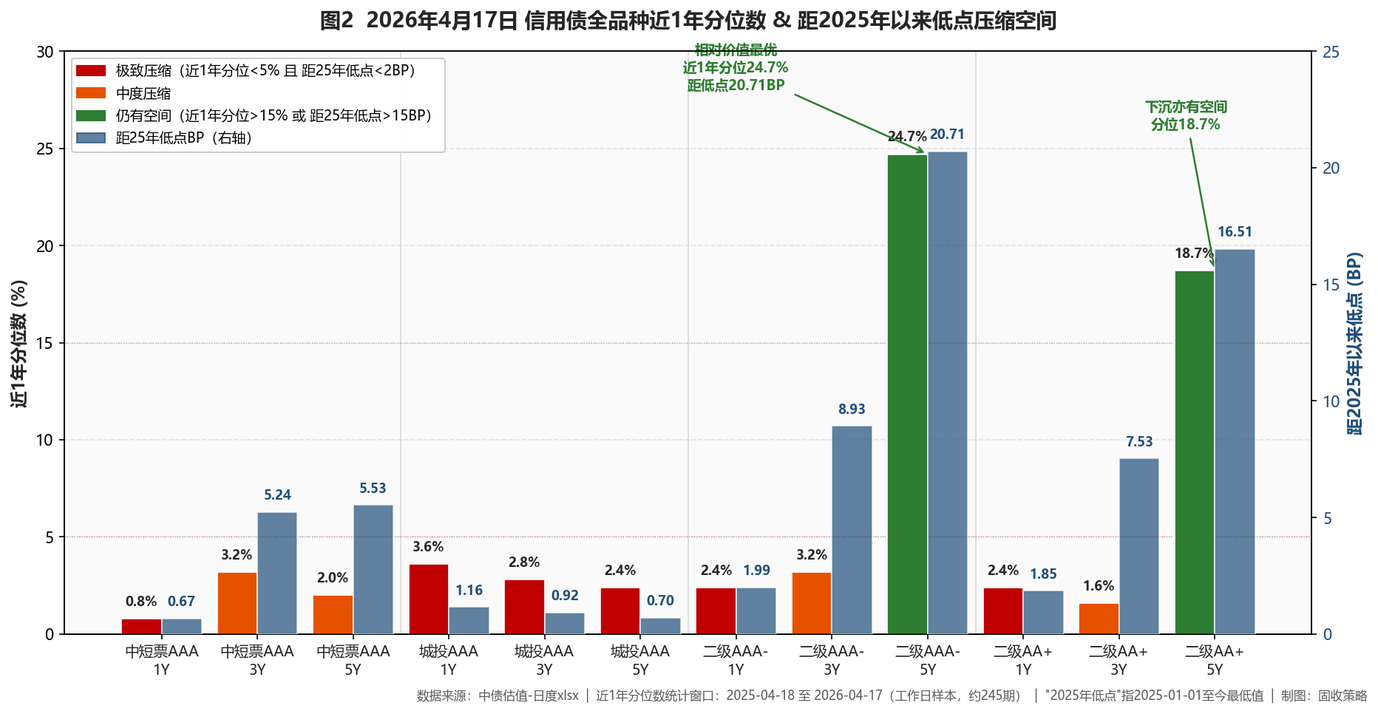
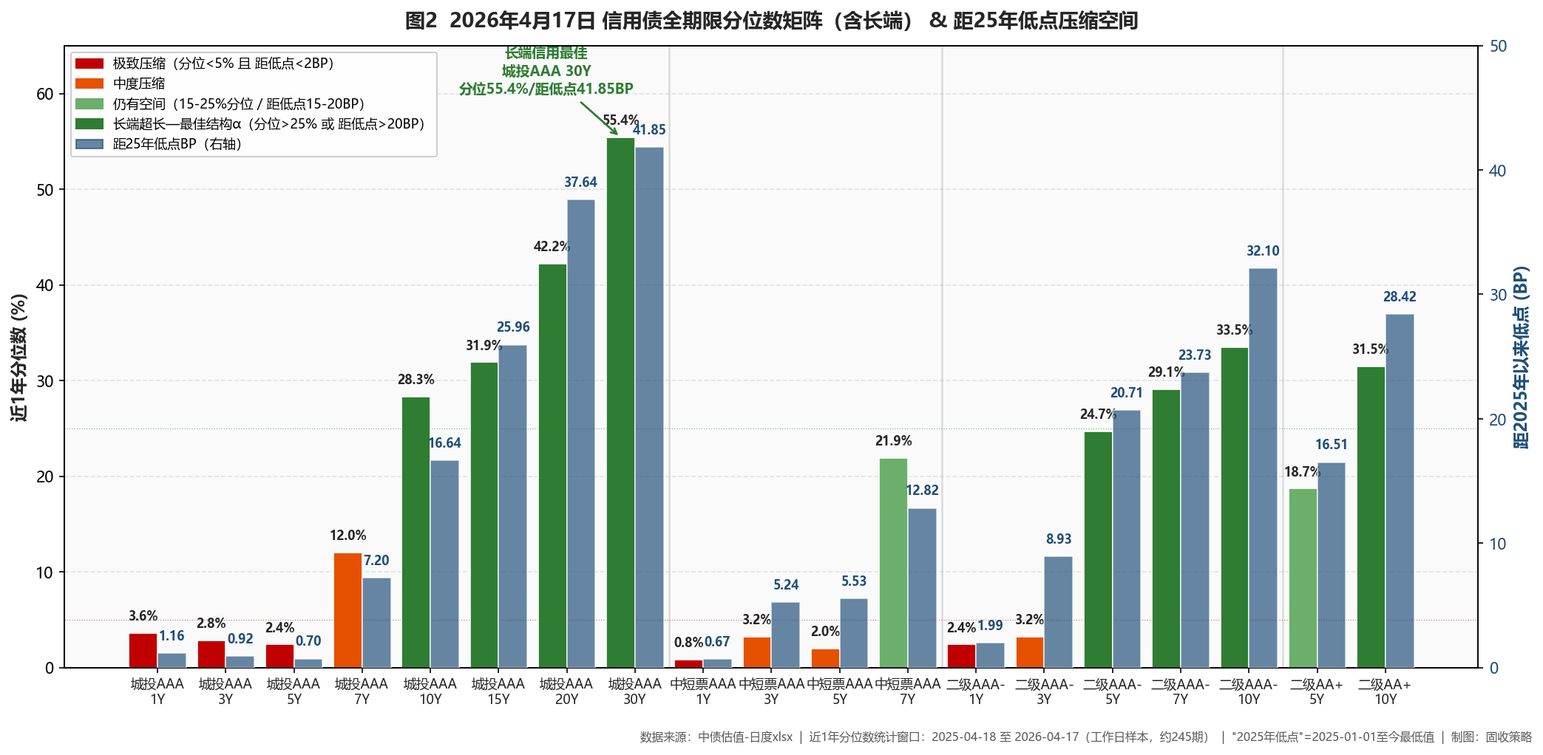
V4：覆盖利率+信用全曲线至30Y，新增长端信用段落与策略（城投AAA 15/20/30Y + 二级AAA-/AA+ 10Y），图2扩展长端期限矩阵

diff --git a/reports/20260420.html b/reports/20260420.html
@@ -3,7 +3,7 @@
 <head>
 <meta charset="UTF-8">
 <meta name="viewport" content="width=device-width, initial-scale=1.0">
-<title>信用日报：20260420 - 中短票AAA破新低，二级资本债5Y仍是相对价值洼地</title>
+<title>信用日报：20260420 - 短端贴底、长端仍有空间，聚焦城投AAA 20/30Y与二级AAA- 10Y</title>
 <style>
   :root{
     --clr-orange:#D97706;       /* 主题橙（深琥珀）*/
@@ -102,7 +102,7 @@
   <div class="header-band">
     <a href="../" class="nav-back">← 返回日报列表</a>
     <h1>信用日报：20260420</h1>
-    <div class="subtitle">中短票AAA破新低，二级资本债5Y仍是相对价值洼地</div>
+    <div class="subtitle">短端贴底、长端仍有空间，聚焦城投AAA 20/30Y与二级AAA- 10Y</div>
   </div>
 
   <div class="content">
@@ -116,12 +116,13 @@
       <div class="concl-card-title">◆ 核心判断 ◆</div>
       <p class="concl-regime">
         <span class="tag-regime">市场定性</span>
-        <strong style="color:var(--clr-orange-deep)">长期震荡市 + 牛平末期</strong>——A股放量反弹压制债市情绪，国开曲线牛平但长端分位已极低，<span class="alert">拉久期赔率降低、挖品种α与保杠杆成为主线</span>。
+        <strong style="color:var(--clr-orange-deep)">长期震荡市 + 牛平末期 + 超长信用行情延续</strong>——A股放量反弹压制债市情绪，但长端信用仍具结构α，<span class="alert">短端贴底、长端为王，机构正向久期要收益</span>。
       </p>
       <ul class="concl-list">
-        <li><span class="tag tag-good">✅ 超配</span>5Y 银行二级资本债 AAA-（近1年分位 24.3%、距25年低点 20.68BP，<strong>唯一仍有10+BP压缩空间的高等级品种</strong>），目标权重 ≥30%</li>
-        <li><span class="tag tag-bad">❌ 规避</span>中短票AAA 1Y（破25年新低、近1年分位 0.4%）、城投AAA 5Y（分位 0.8%、距低点 0.27BP）——<strong>贴底接盘风险大于收益</strong></li>
-        <li><span class="tag tag-bad">❌ 不追</span>长端利率债活跃券——活跃券下行0.5BP+但中债估值曲线持平，<strong>配置盘未跟进，牛平末期赔率低</strong></li>
+        <li><span class="tag tag-good">✅ 超长信用</span>首选：<strong>城投AAA 20/30Y</strong>（分位41-46%/距低点37.83-39.88BP）+ <strong>二级AAA- 10Y</strong>（-1.75BP领跌、分位31.5%/距低点30.35BP）+ <strong>二级AA+ 10Y</strong>（分位31.1%/距低点28.24BP）；合计权重15-25%</li>
+        <li><span class="tag tag-good">✅ 中段品种</span>5Y二级AAA-（分位24.3%/距低点20.68BP）+ 5Y二级AA+（分位13.9%/距低点15.10BP），合计25-30%</li>
+        <li><span class="tag tag-bad">❌ 规避</span>中短票AAA 1Y（破25年新低、分位0.4%）、城投AAA 1-5Y（分位<2.5%、距低点<1BP）——<strong>贴底接盘</strong></li>
+        <li><span class="tag tag-bad">❌ 不追</span>长端利率债活跃券——活跃券与中债估值分化、配置盘未跟进，<strong>牛平末期赔率低</strong></li>
       </ul>
       <div class="concl-flip">
         <strong>翻转信号：</strong>①政治局超预期宽松→重启久期 &nbsp;|&nbsp; ②R-DR利差>15BP→去杠杆 &nbsp;|&nbsp; ③活跃券与中债估值利差重走阔→长端机会重现 &nbsp;|&nbsp; ④股债跷跷板+赎回→二永或成错杀
@@ -141,7 +142,7 @@
       </div>
 
       <h2>信用债（核心）</h2>
-      <p>全品种利差压缩0.5-1.5BP但极致分化：<span class="alert">中短票AAA 1Y破25年新低（近1年分位0.4%）、城投AAA全曲线分位<2.5%（5Y仅0.8%、距低点0.27BP）已贴底</span>；唯<span class="good">银行二级资本债AAA- 5Y近1年分位24.3%、距低点20.68BP，仍有10BP+压缩空间，是当前唯一结构α品种</span>。理财规模31.9万亿（-1.38万亿）但增配债券，中短端二永仍有支撑。<span class="head">保险视角：</span>30Y-10Y利差49BP>25BP阈值但配置盘观望；偿二代后永续债因基础因子更低可作替代考虑。</p>
+      <p>全品种利差压缩0.5-1.5BP但呈现<span class="alert">"短端贴底、长端仍有空间"</span>的期限分化：短中端（中短票AAA 1Y破25年新低/分位0.4%、城投AAA 1-5Y分位<2.5%）已极致贴底；<span class="good">🎯 长端价值洼地明显——城投AAA 20/30Y分位46.2%/41.4%/距低点37.83-39.88BP、30Y领跌-1.97BP；二级AAA- 10Y今日-1.75BP、分位31.5%/距低点30.35BP；二级AA+ 10Y分位31.1%/距低点28.24BP</span>；中段5Y二级AAA-分位24.3%仍有20BP空间。理财31.9万亿(-1.38万亿)但增配债券，机构正向长端要收益。</p>
       <div class="chart-wrap">
         <img src="assets/20260420_chart2_credit_quantile.png" alt="信用债全品种分位数与压缩空间">
         <p class="chart-caption">图2　信用债全品种近1年分位数 & 距2025年以来低点压缩空间</p>
@@ -149,17 +150,18 @@
 
       <h2>策略矩阵</h2>
       <div class="strategy-matrix">
-        <div class="row"><span class="col-tag good">✅ 品种（首选）</span><span class="col-body">超配5Y二级资本债AAA- 30-40%；止盈位再压缩8BP</span></div>
-        <div class="row"><span class="col-tag good">✅ 骑乘</span><span class="col-body">5Y→4Y→3Y二级资本债，曲线陡峭度支撑双重收益</span></div>
-        <div class="row"><span class="col-tag good">✅ 票息底仓</span><span class="col-body">1-3Y城投AAA 20-25% + 1-3Y中短票AAA 10-15%</span></div>
+        <div class="row"><span class="col-tag good">✅ 超长信用（新核心）</span><span class="col-body">城投AAA 20/30Y + 二级AAA-/AA+ 10Y，合计15-25%</span></div>
+        <div class="row"><span class="col-tag good">✅ 中段品种</span><span class="col-body">5Y二级AAA- 20-25% + 5Y二级AA+ 5-10%</span></div>
+        <div class="row"><span class="col-tag good">✅ 骑乘</span><span class="col-body">5Y→4Y→3Y二级资本债，陡峭度支撑双重收益</span></div>
+        <div class="row"><span class="col-tag good">✅ 票息底仓</span><span class="col-body">1-3Y城投AAA 15-20% + 1-3Y中短票AAA 5-10%</span></div>
         <div class="row"><span class="col-tag good">✅ 杠杆</span><span class="col-body">保持110-115%，关注月末+政治局会议</span></div>
-        <div class="row"><span class="col-tag warn">⚠ 下沉</span><span class="col-body">仅5Y二级资本债AA+小仓位（≤10%）参与</span></div>
-        <div class="row"><span class="col-tag bad">❌ 久期</span><span class="col-body">牛平末期+长端分位极低，退出长端博弈</span></div>
+        <div class="row"><span class="col-tag warn">⚠ 止盈监测</span><span class="col-body">基金久期近3年 / 10Y AAA-3Y利差25-30BP / 下行斜率加速 / 机构下沉超长——任一触发减仓20/30Y</span></div>
+        <div class="row"><span class="col-tag bad">❌ 不追长端利率债</span><span class="col-body">活跃券与中债估值分化、配置盘未跟进，牛平末期赔率低</span></div>
         <div class="row"><span class="col-tag bad">❌ 波段</span><span class="col-body">震荡市缺明确方向，胜率低不作主策略</span></div>
       </div>
 
       <div class="portfolio-box">
-        <strong>组合结构：</strong> 3-5Y二永AAA- 30-40% + 1-3Y城投AAA 20-25% + 1-3Y中短票AAA 10-15% + 5Y二级AA+ ≤10% + 5Y永续AAA- 0-10% + 现金≥10%；杠杆率110-115%。
+        <strong>组合结构：</strong> 长端信用（城投AAA 20/30Y + 二级AAA-/AA+ 10Y）15-25% + 5Y二级AAA- 20-25% + 5Y二级AA+ 5-10% + 1-3Y城投AAA 15-20% + 1-3Y中短票AAA 5-10% + 现金≥10%；杠杆110-115%。
       </div>
     </div>
 
@@ -181,9 +183,11 @@
       </div>
 
       <h2>三、信用债市场</h2>
-      <p>中债估值口径下，信用债<span class="data">全品种跟随利率债小幅下行、信用利差全面小幅压缩0.5-1.5BP</span>，宽松资金面正外溢至信用端。但今日最硬的信号是<span class="alert">不同品种的相对价值已极致分化</span>——<span class="head">中短票AAA是今日最核心信号源</span>，1Y下行0.67BP至1.5351%、<span class="alert">刷新2025年以来最低点，近1年分位数（2025-04-21至今工作日样本）仅0.4%</span>，意味着过去一年仅有极个别交易日低于今天；<span class="head">城投AAA是全市场最极致压缩的板块</span>，全曲线近1年分位数均<2.5%（1.2%/2.4%/0.8%），其中5Y仅0.8%为全市场之最、距2025年以来低点仅0.27BP，1Y/3Y距低点0.23/0.76BP同样近乎贴底。<span class="alert">进一步压缩空间几乎为零，在绝对价值极值位继续增持，风险收益比已严重恶化</span>。</p>
-      <p>与此形成鲜明对比的是，<span class="head">银行二级资本债AAA-是当前最具相对价值的板块</span>——5Y报1.9721%，<span class="good">近1年分位数24.3%、距2025年低点20.68BP</span>，两项指标均显著高于同期限城投AAA（0.8% / 0.27BP）与中短票AAA（2.8% / 5.82BP），<span class="good">是当前信用债中唯一仍有10BP以上压缩空间的高等级品种</span>。1Y/3Y分位虽已压至1.6%/2.0%，但仍有1-8BP的距低点空间。AA+ 5Y今日-1.41BP、利差单日压缩1.58BP，下沉收益显现。这正是<span class="data">"结构性资产荒下品种策略价值凸显"</span>的典型窗口——市场已从票息挖掘向结构α迁移。</p>
-      <p><span class="head">机构行为与保险视角：</span>一季度末理财规模31.9万亿，<span class="alert">环比-1.38万亿、降幅超季节性</span>（存款分流+打榜受限+分红险竞争），但资产端明显增配债券、减配存单，<span class="data">对中短端信用尤其是二永债的配置需求仍有边际支撑</span>。保险视角两个重要信号：①<span class="data">30Y-10Y国债期限利差（中债估值口径）49BP，显著高于25BP的险资增配经验阈值</span>，理论上超长端是险资负债驱动下的配置窗口；但活跃券与中债估值分化提示同业保险目前处于"等更好点位"的观望状态，跟进太早=给交易盘做对手盘。②偿二代二期过渡期2025年底结束后，<span class="head">二级资本债基础因子高于永续债</span>——对偿付能力承压的中小寿险而言，5Y永续AAA-可作为5Y二级资本债AAA-的替代或补充品种（需结合IFRS9会计处理口径综合评估）。</p>
+      <p>全品种利差压缩0.5-1.5BP但呈现<span class="alert">"短端贴底、长端仍有空间"</span>的显著期限分化——<span class="head">短中端已极致压缩：</span>中短票AAA 1Y破25年新低（分位0.4%）、城投AAA 1-5Y分位均<2.5%（5Y仅0.8%/距低点0.27BP）、中短票AAA 3-5Y分位<4%——<span class="alert">在绝对价值极值位继续增持，风险收益比已严重恶化</span>。</p>
+      <p><span class="head">🎯 长端信用是今日真正的价值洼地——</span><span class="good">城投AAA 20/30Y今日+0.19/-1.97BP、近1年分位46.2%/41.4%、距2025年以来低点37.83/39.88BP</span>，30Y单日领跌长端信用；<span class="good">二级资本债AAA- 10Y今日-1.75BP（信用板块领跌）、分位31.5%/距低点30.35BP</span>，二级AA+ 10Y分位31.1%/距低点28.24BP同样具吸引力；中短票AAA 7Y分位21.1%/距低点11.82BP。按超长信用行情框架，当前处于<span class="data">"利率震荡+非银扩张（理财增配债券）+资产荒演绎中期"三重共振窗口</span>——必要条件完全满足，长端品种α相对中短端具有显著的赔率优势。</p>
+      <p><span class="head">中段品种亦有空间——</span>5Y 二级资本债AAA-（分位24.3%/距低点20.68BP）+ 5Y 二级AA+（分位13.9%/距低点15.10BP）均显著优于同期限城投AAA与中短票AAA，中段信用中仅二级资本债系列仍有10-15BP压缩空间；AA+ 5Y今日-1.41BP、单日利差压缩1.58BP，下沉收益显现；活跃个券"26工行二级资本债01BC"、"24建二级资本债01B"均小幅下行与曲线数据印证。</p>
+      <p><span class="head">【止盈信号监测】</span>按超长信用止盈框架，需同步监测：<span class="alert">①中长期纯债基金久期接近3年阈值 ②10Y AAA中短票-3Y利差压至25-30BP附近 ③下行斜率加速形成一致预期 ④机构向中低等级超长债下沉</span>——任一触发建议向10Y以内配置型品种集中、减仓20/30Y超长。</p>
+      <p><span class="head">【理财行为与保险视角】</span>一季度末理财31.9万亿（环比-1.38万亿）但资产端明显增配债券，机构正在向长端扩散。保险视角：30Y-10Y国债期限利差49BP显著高于25BP的险资增配经验阈值，超长端是险资负债驱动下的配置窗口；偿二代二期过渡期2025年底结束后，<span class="head">二级资本债基础因子高于永续债</span>，对偿付能力承压的中小寿险而言，5Y永续AAA-可作为5Y二级资本债AAA-的替代/补充品种（需结合IFRS9综合评估）。</p>
       <div class="source">数据来源：《信用债净值曲线-全品种》中债估值日频数据库——中短票AAA(M1000532/M1000534/M1000536)、城投AAA(M1000381/M1000383/M1000385)、银行二级资本债AAA-(M1010704/M1010706/M1010708)、银行二级资本债AA+(M1010719/M1010721/M1010723)、国债(M1000158/M1000160/M1000162)；信用利差基于同期限中债国债估值自行计算；分位数=近1年（2025-04-21至今）工作日样本；"2025年低点"指2025-01-01至今最低值；理财规模数据取自Wind资讯。</div>
       <div class="chart-wrap">
         <img src="assets/20260420_chart2_credit_quantile.png" alt="信用债全品种分位数与压缩空间">
@@ -192,17 +196,19 @@
 
       <h2>四、策略矩阵与仓位建议</h2>
       <div class="strategy-matrix">
-        <div class="row"><span class="col-tag good">✅ 品种（首选）</span><span class="col-body">超配5Y二级资本债AAA- 30-40%，止盈位再压缩8BP。这是"结构性资产荒下品种策略价值凸显"的典型应用——市场已从票息挖掘向结构α迁移。</span></div>
-        <div class="row"><span class="col-tag good">✅ 骑乘</span><span class="col-body">5Y→4Y→3Y二级资本债，曲线陡峭度足够（5Y-3Y约20BP），持有期间获"票息+曲线下移"双重收益。城投AAA骑乘价值不足（全曲线过于平坦）。</span></div>
-        <div class="row"><span class="col-tag good">✅ 票息底仓</span><span class="col-body">1-3Y城投AAA + 1-3Y中短票AAA作为组合票息底仓，不追5Y久期（近1年分位<2.5%、拉久期无收益只加风险）。</span></div>
-        <div class="row"><span class="col-tag good">✅ 杠杆</span><span class="col-body">R-DR利差极窄、1Y中短票-R007息差约20BP，杠杆仍是收益增厚来源——保持110-115%。观察止损信号：政治局会议、月末资金面、税期扰动。</span></div>
-        <div class="row"><span class="col-tag warn">⚠ 下沉</span><span class="col-body">仅二级资本债AA+ 5Y小仓位（≤10%）参与——今日-1.41BP显示下沉需求开始释放；但低等级城投利差贴底、下沉空间有限，严格规避区域财政弱、化债进度慢的AA城投。</span></div>
-        <div class="row"><span class="col-tag bad">❌ 久期</span><span class="col-body">牛平末期+长端分位极低+配置盘未跟进——拉久期至5Y及以上的资本利得赔率不足。长端利率债活跃券不追涨，等待活跃券与中债估值利差重走阔或央行释放新宽松信号再介入。</span></div>
+        <div class="row"><span class="col-tag good">✅ 超长信用（新核心）</span><span class="col-body">城投AAA 20/30Y（分位41-46%/距低点37.83-39.88BP）+ 二级AAA- 10Y（-1.75BP领跌、分位31.5%）+ 二级AA+ 10Y（分位31.1%）；合计目标权重15-25%。当前处于"利率震荡+非银扩张+资产荒中期"三重共振，必要条件完全满足。</span></div>
+        <div class="row"><span class="col-tag good">✅ 中段品种</span><span class="col-body">5Y二级资本债AAA- 20-25%（分位24.3%/距低点20.68BP）+ 5Y二级AA+ 5-10%（分位13.9%/距低点15.10BP），止盈位再压缩8BP。</span></div>
+        <div class="row"><span class="col-tag good">✅ 骑乘</span><span class="col-body">5Y→4Y→3Y二级资本债骑乘路径，曲线陡峭度足够（5Y-3Y约20BP），持有期获"票息+曲线下移"双重收益。</span></div>
+        <div class="row"><span class="col-tag good">✅ 票息底仓</span><span class="col-body">1-3Y城投AAA 15-20% + 1-3Y中短票AAA 5-10%，不追5Y久期（分位<2.5%）。</span></div>
+        <div class="row"><span class="col-tag good">✅ 杠杆</span><span class="col-body">R-DR利差极窄、息差约20BP，保持110-115%杠杆；观察政治局会议+月末资金面+税期扰动。</span></div>
+        <div class="row"><span class="col-tag warn">⚠ 下沉</span><span class="col-body">二级AA+ 5/10Y本身已是下沉品种；城投AA+/AA仅限区域财政强+化债进度快的主体，严格控仓≤5%。</span></div>
+        <div class="row"><span class="col-tag warn">⚠ 止盈监测</span><span class="col-body">超长信用止盈四信号：①基金久期近3年 ②10Y AAA中短票-3Y利差压至25-30BP ③下行斜率加速一致预期 ④机构下沉中低等级超长——任一触发向10Y以内集中、减仓20/30Y。</span></div>
+        <div class="row"><span class="col-tag bad">❌ 不追长端利率债</span><span class="col-body">活跃券下行0.5BP+但中债估值曲线持平，配置盘未跟进，牛平末期赔率低。等待活跃券与中债估值利差重走阔再介入。</span></div>
         <div class="row"><span class="col-tag bad">❌ 波段</span><span class="col-body">当前处于震荡市、缺乏明确方向拐点，波段交易胜率低、交易成本高，不作主策略。</span></div>
       </div>
 
       <div class="portfolio-box">
-        <strong>组合结构：</strong> 3-5Y二级资本债AAA- 30-40%（核心底仓/品种α）+ 1-3Y城投AAA 20-25%（票息）+ 1-3Y中短票AAA 10-15%（流动性垫）+ 5Y二级资本债AA+ ≤10%（下沉增强）+ 5Y永续债AAA- 0-10%（偿付能力替代）+ 现金与短融 ≥10%（税期缓冲）；杠杆率110-115%。
+        <strong>组合结构：</strong> 长端信用（城投AAA 20/30Y + 二级AAA-/AA+ 10Y）15-25%（核心结构α）+ 5Y二级资本债AAA- 20-25%（中段）+ 5Y二级AA+ 5-10%（下沉）+ 1-3Y城投AAA 15-20%（票息）+ 1-3Y中短票AAA 5-10%（流动性垫）+ 现金≥10%（税期缓冲）；杠杆率110-115%。
       </div>
 
       <div class="source">本文结论基于2026-04-20当日市场数据独立判断，数据口径统一采用中债估值。</div>

diff --git a/reports/20260417.html b/reports/20260417.html
@@ -3,7 +3,7 @@
 <head>
 <meta charset="UTF-8">
 <meta name="viewport" content="width=device-width, initial-scale=1.0">
-<title>信用日报：20260417 - 利率大幅下行，信用跟进滞后，二永AAA-仍是最优结构α</title>
+<title>信用日报：20260417 - 利率大幅下行，长端信用全面跟随，聚焦城投AAA 20/30Y+二级AAA- 10Y</title>
 <style>
   :root{
     --clr-orange:#D97706;
@@ -99,7 +99,7 @@
   <div class="header-band">
     <a href="../" class="nav-back">← 返回日报列表</a>
     <h1>信用日报：20260417</h1>
-    <div class="subtitle">利率大幅下行，信用跟进滞后，二永AAA-仍是最优结构α</div>
+    <div class="subtitle">利率大幅下行，长端信用全面跟随，聚焦城投AAA 20/30Y + 二级AAA- 10Y</div>
   </div>
 
   <div class="content">
@@ -113,12 +113,13 @@
       <div class="concl-card-title">◆ 核心判断 ◆</div>
       <p class="concl-regime">
         <span class="tag-regime">市场定性</span>
-        <strong style="color:var(--clr-orange-deep)">资产荒延续 + 牛平加速</strong>——利率债全线下行1.5-3.1BP、30Y国债-3.10BP领跌，但信用债跟进明显滞后，<span class="alert">信用利差被动走阔、仅二级资本债紧跟利率，城投AAA逆势微升</span>。
+        <strong style="color:var(--clr-orange-deep)">资产荒延续 + 牛平加速 + 超长信用行情共振</strong>——利率债全线下行1.5-3.1BP、30Y国债-3.10BP领跌；信用债短中端跟不上但<span class="alert">长端全面跟随（城投AAA 7-30Y -0.73~-2.06BP、二级AAA- 7-10Y -0.85~-1.52BP）</span>。
       </p>
       <ul class="concl-list">
-        <li><span class="tag tag-good">✅ 超配</span>5Y 二级资本债 AAA-（近1年分位24.7%、距25年低点20.71BP，<strong>信用债中唯一结构α</strong>），目标权重≥30%；叠加5Y二级AA+下沉（分位18.7%、距低点16.51BP）</li>
-        <li><span class="tag tag-good">✅ 战术</span>利用信用利差走阔机会——3-5Y中短票AAA利差单日+1.56/+2.23BP、城投AAA +2.09/+2.41BP，<strong>短期修复窗口可波段参与（仓位≤10%快进快出）</strong></li>
-        <li><span class="tag tag-bad">❌ 规避</span>中短票AAA 1Y（分位0.8%、距低点0.67BP）、中短票AA+ 3Y（分位0.4%、距低点0.68BP）——<strong>极致贴底、不新增</strong></li>
+        <li><span class="tag tag-good">✅ 超长信用</span>首选：<strong>城投AAA 20/30Y</strong>（-0.73/-2.03BP领跌、分位42.2%/55.4%/距低点37.64-41.85BP）+ <strong>二级AAA- 10Y</strong>（-1.52BP、分位33.5%/距低点32.10BP）+ <strong>二级AA+ 10Y</strong>（-1.51BP、分位31.5%/距低点28.42BP）；合计15-25%</li>
+        <li><span class="tag tag-good">✅ 中段品种</span>5Y二级AAA-（分位24.7%）+ 5Y二级AA+（分位18.7%）+ 中短票AAA 7Y（分位21.9%）</li>
+        <li><span class="tag tag-good">✅ 战术</span>3-5Y中短票AAA/城投AAA利差单日走阔2BP+，<strong>短期修复窗口波段≤10%快进快出</strong></li>
+        <li><span class="tag tag-bad">❌ 规避</span>中短票AAA 1Y（分位0.8%）、中短票AA+ 3Y（分位0.4%）、城投AAA 1-5Y（分位<4%）——<strong>极致贴底</strong></li>
       </ul>
       <div class="concl-flip">
         <strong>翻转信号：</strong>①信用跟进加速→利差修复窗口关闭、战术减仓 &nbsp;|&nbsp; ②R-DR利差>15BP→去杠杆 &nbsp;|&nbsp; ③A股放量+赎回→二永或成错杀 &nbsp;|&nbsp; ④30Y国债分位>80%→长端博弈减仓
@@ -138,7 +139,8 @@
       </div>
 
       <h2>信用债（核心）</h2>
-      <p><span class="alert">跟进滞后：</span><span class="good">二级资本债AAA-/AA+全曲线-1.13~-1.38BP紧跟利率</span>；中短票AAA 3-5Y基本持平（利差+1.56/+2.23BP）；<span class="alert">城投AAA全曲线逆势微升0.26-0.62BP、利差走阔+0.32~+2.41BP（全市场唯一上行板块）</span>。相对价值上，<span class="good">二级AAA- 5Y分位24.7%/距低点20.71BP、二级AA+ 5Y分位18.7%/距低点16.51BP，是最具吸引力的结构α</span>；中短票AAA 1Y/AA+ 3Y分位<1%，极致贴底。利差被动走阔为3-5Y中短票/城投AAA提供短期战术修复机会（需快进快出、不作长期仓位）。</p>
+      <p>呈<span class="alert">"短中端跟不上、长端同步跟随"</span>的两段式：短中端城投AAA 1-5Y逆势+0.26-0.62BP、中短票AAA 3-5Y基本持平；<span class="good">长端全面跟随——城投AAA 7-30Y下行0.73-2.06BP、二级AAA- 7-10Y下行0.85-1.52BP、中短票AAA 7Y -0.47BP</span>。</p>
+      <p><span class="head">🎯 相对价值：长端为王——</span><span class="good">城投AAA 20/30Y分位42.2%/55.4%/距低点37.64-41.85BP（最佳结构α）；二级AAA- 10Y分位33.5%/距低点32.10BP；二级AA+ 10Y分位31.5%/距低点28.42BP</span>；中段5Y二级AAA-分位24.7%、5Y二级AA+分位18.7%仍是首选；中短票AAA 1Y/AA+ 3Y/城投AAA 1-5Y分位<4%，极致贴底。利差被动走阔为3-5Y中短票/城投AAA提供短期战术修复机会（快进快出、不作长期仓位）。</p>
       <div class="chart-wrap">
         <img src="assets/20260417_chart2_credit_quantile.png" alt="信用债全品种分位数与压缩空间">
         <p class="chart-caption">图2　信用债全品种近1年分位数 & 距2025年以来低点压缩空间</p>
@@ -146,18 +148,20 @@
 
       <h2>策略矩阵</h2>
       <div class="strategy-matrix">
-        <div class="row"><span class="col-tag good">✅ 品种（首选）</span><span class="col-body">超配5Y二级AAA- 30-40% + 5Y二级AA+ 10-15%（下沉增强）</span></div>
+        <div class="row"><span class="col-tag good">✅ 超长信用（新核心）</span><span class="col-body">城投AAA 20/30Y + 二级AAA-/AA+ 10Y + 城投AAA 15Y，合计15-25%</span></div>
+        <div class="row"><span class="col-tag good">✅ 中段品种</span><span class="col-body">5Y二级AAA- 15-20% + 5Y二级AA+ 5-10% + 中短票AAA 7Y</span></div>
         <div class="row"><span class="col-tag good">✅ 战术性参与</span><span class="col-body">3-5Y中短票/城投AAA利差走阔修复窗口，波段≤10%，3-5日兑现</span></div>
         <div class="row"><span class="col-tag good">✅ 骑乘</span><span class="col-body">5Y→4Y→3Y二级资本债，曲线陡峭度约19BP</span></div>
-        <div class="row"><span class="col-tag good">✅ 票息底仓</span><span class="col-body">1-3Y城投AAA + 1-3Y中短票AAA，不追5Y久期</span></div>
+        <div class="row"><span class="col-tag good">✅ 票息底仓</span><span class="col-body">1-3Y城投AAA 15-20% + 1-3Y中短票AAA 5-10%</span></div>
         <div class="row"><span class="col-tag good">✅ 杠杆</span><span class="col-body">保持110-115%（DR007连两周低于OMO+国库净投放）</span></div>
         <div class="row"><span class="col-tag warn">⚠ 下沉</span><span class="col-body">二级AA+已是下沉品种；城投AA+/AA严控≤5%</span></div>
+        <div class="row"><span class="col-tag warn">⚠ 止盈监测</span><span class="col-body">基金久期近3年 / 10Y AAA-3Y利差25-30BP / 下行斜率加速 / 机构下沉超长——任一触发向10Y以内集中</span></div>
         <div class="row"><span class="col-tag warn">⚠ 久期</span><span class="col-body">30Y国债分位从19%→68%，可逢强兑现；若>80%立即减仓</span></div>
         <div class="row"><span class="col-tag bad">❌ 规避</span><span class="col-body">中短票AAA 1Y（分位0.8%）——清仓或仅留到期用途</span></div>
       </div>
 
       <div class="portfolio-box">
-        <strong>组合结构：</strong> 3-5Y二级AAA- 30-40% + 5Y二级AA+ 10-15% + 1-3Y城投AAA 15-20% + 1-3Y中短票AAA 10-15% + 战术波段≤10% + 现金≥10%；杠杆率110-115%。
+        <strong>组合结构：</strong> 长端信用（城投AAA 15/20/30Y + 二级AAA-/AA+ 10Y）15-25% + 5Y二级AAA- 15-20% + 5Y二级AA+ 5-10% + 1-3Y城投AAA 15-20% + 1-3Y中短票AAA 5-10% + 战术波段≤10% + 现金≥10%；杠杆110-115%。
       </div>
     </div>
 
@@ -178,9 +182,10 @@
       </div>
 
       <h2>三、信用债市场</h2>
-      <p>今日信用债最突出的特征是<span class="alert">跟进节奏显著滞后于利率债</span>——利率债全线下行1.5-3.1BP的同时，信用债呈现三档差异：<span class="good">二级资本债（AAA-/AA+）是唯一紧跟利率的信用品种</span>，1Y/3Y/5Y AAA- 分别下行1.38/1.38/1.36BP、AA+ 分别下行1.39/1.26/1.13BP；<span class="data">中短票AAA 1Y下行0.79BP（分位0.8%），但3Y/5Y仅+0.09/+0.08BP基本持平，信用利差1Y/3Y/5Y分别-0.79/+1.56/+2.23BP</span>——中短端跟随、中长端明显跟不上；<span class="alert">城投AAA全曲线逆势微升0.26-0.62BP，信用利差单日走阔+0.32/+2.09/+2.41BP</span>——是全市场唯一上行的高等级品种。</p>
-      <p>相对价值扫描上，<span class="good">银行二级资本债仍是最具吸引力的结构α</span>——AAA- 5Y近1年分位24.7%、距2025年以来低点20.71BP；AA+ 5Y近1年分位18.7%、距低点16.51BP——<span class="good">两者均提供10BP以上的压缩空间，且随今日下行1.1-1.4BP已开启趋势，是结构性资产荒下品种α的典型窗口</span>。与之相比，中短票AAA/AA+ 1Y与城投AAA全曲线的近1年分位数均<4%、距低点<1.2BP，<span class="alert">已极致压缩、进一步下行空间几乎为零</span>。</p>
-      <p>今日信用利差的被动走阔，<span class="head">实际上为3-5Y中短票AAA与城投AAA提供了短期战术性参与的入场机会</span>——信用策略复盘中，"利率下行信用跟不上"阶段往往紧接着信用利差修复窗口，修复时间通常在3-5个交易日内。但需注意，由于这两个品种的绝对分位数已极低（<4%），<span class="alert">战术机会仅适合快进快出的波段交易，不可作为长期配置仓位</span>。机构行为层面，"当前流动性充盈，配置需求接力入场；资金太松、钱多资产少，配置需求会向长端扩散"——这与"保险+理财双重资产荒下长端配置需求释放"判断一致。但长端利率债今日下行幅度较大、30Y国债近1年分位已从19%反弹至68.1%，<span class="head">后续长端博弈空间开始收窄，若分位数进一步上升至80%以上建议减仓</span>。</p>
+      <p>今日信用债呈现<span class="alert">"短中端跟不上、长端同步跟随"的两段式特征</span>——利率债全线下行1.5-3.1BP的同时：<span class="alert">短中端（1-5Y）跟不上</span>，中短票AAA 3-5Y +0.09/+0.08BP基本持平、城投AAA 1-5Y逆势微升0.26-0.62BP（全市场唯一上行）；二级资本债AAA-/AA+ 1-5Y同步下行1.13-1.39BP是中段唯一紧跟利率的品种；<span class="good">长端（7-30Y）则全面跟随甚至领涨——城投AAA 7/10/15/20/30Y下行1.25/2.06/1.00/0.73/2.03BP、二级AAA- 7/10Y下行0.85/1.52BP、中短票AAA 7Y下行0.47BP</span>。</p>
+      <p><span class="head">🎯 长端信用是今日真正的价值洼地——</span><span class="good">城投AAA 20/30Y今日下行0.73/2.03BP、近1年分位42.2%/55.4%、距2025年以来低点37.64/41.85BP</span>，是全市场最优结构α；城投AAA 10/15Y分位28.3%/31.9%/距低点16.64/25.96BP；<span class="good">二级资本债AAA- 10Y今日-1.52BP、分位33.5%/距低点32.10BP（信用超长中流动性最好）；二级AA+ 10Y分位31.5%/距低点28.42BP</span>；中短票AAA 7Y分位21.9%/距低点12.82BP。按超长信用行情框架，当前处于<span class="data">"利率下行+非银扩张（理财增配债券）+资产荒演绎中期"的三重共振窗口</span>——行情必要条件完全满足、短端已压至极致，机构必然向久期要收益。</p>
+      <p><span class="head">中段品种方面——</span>5Y二级AAA-分位24.7%/距低点20.71BP、5Y二级AA+分位18.7%/距低点16.51BP，两者随今日下行1.1-1.4BP已开启趋势；中短票AAA 7Y分位21.9%同样有空间。与之相比，中短票AAA/AA+ 1Y与城投AAA 1-5Y近1年分位数均<4%、距低点<1.2BP，<span class="alert">短中端已极致压缩、进一步下行空间几乎为零</span>。今日信用利差的被动走阔为3-5Y中短票/城投AAA提供短期战术修复机会（3-5个交易日内），但<span class="alert">战术机会仅适合快进快出，不可作长期配置</span>。</p>
+      <p><span class="head">【止盈信号】</span>按超长信用止盈框架，需同步监测：<span class="alert">①中长期纯债基金久期接近3年阈值 ②10Y AAA中短票-3Y利差压至25-30BP附近 ③下行斜率加速形成一致预期 ④机构向中低等级超长债下沉</span>——任一触发向10Y以内配置型品种集中、减仓20/30Y超长。长端利率债30Y国债近1年分位已从19%反弹至68%，若分位进一步>80%建议减仓长端利率。</p>
       <div class="source">数据来源：《信用债净值曲线-全品种》中债估值日频数据库——中短票AAA(M1000532/M1000534/M1000536)、中短票AA+(M1000554/M1000556/M1000558)、城投AAA(M1000381/M1000383/M1000385)、银行二级资本债AAA-(M1010704/M1010706/M1010708)、银行二级资本债AA+(M1010719/M1010721/M1010723)、国债(M1000158/M1000160/M1000162)；信用利差基于同期限中债国债估值自行计算；分位数=近1年（2025-04-18至今）工作日样本；"2025年低点"指2025-01-01至今最低值。</div>
       <div class="chart-wrap">
         <img src="assets/20260417_chart2_credit_quantile.png" alt="信用债全品种分位数与压缩空间">
@@ -189,18 +194,20 @@
 
       <h2>四、策略矩阵与仓位建议</h2>
       <div class="strategy-matrix">
-        <div class="row"><span class="col-tag good">✅ 品种（首选）</span><span class="col-body">超配5Y二级资本债AAA- 30-40%，止盈位再压缩8BP；叠加5Y二级资本债AA+下沉（分位18.7%、距低点16.51BP）、目标权重10-15%。</span></div>
-        <div class="row"><span class="col-tag good">✅ 战术性参与</span><span class="col-body">3-5Y中短票AAA/城投AAA利差单日走阔2BP+，短期有修复机会——波段仓位≤10%快进快出（3-5个交易日内兑现），不作为长期配置。</span></div>
+        <div class="row"><span class="col-tag good">✅ 超长信用（新核心）</span><span class="col-body">城投AAA 20/30Y（-0.73/-2.03BP领跌、分位42.2%/55.4%/距低点37.64-41.85BP）+ 二级AAA- 10Y（-1.52BP、分位33.5%/距低点32.10BP）+ 二级AA+ 10Y（-1.51BP、分位31.5%/距低点28.42BP）+ 城投AAA 15Y（分位31.9%/距低点25.96BP）；合计目标权重15-25%。</span></div>
+        <div class="row"><span class="col-tag good">✅ 中段品种</span><span class="col-body">5Y二级AAA- 15-20%（分位24.7%）+ 5Y二级AA+ 5-10%（分位18.7%）+ 中短票AAA 7Y（分位21.9%）；止盈位再压缩8BP。</span></div>
+        <div class="row"><span class="col-tag good">✅ 战术性参与</span><span class="col-body">3-5Y中短票AAA/城投AAA利差单日走阔2BP+，短期修复窗口可波段≤10%快进快出（3-5日兑现），不作长期配置。</span></div>
         <div class="row"><span class="col-tag good">✅ 骑乘</span><span class="col-body">5Y→4Y→3Y二级资本债骑乘路径仍有效（5Y-3Y陡峭度约19BP），持有期获"票息+曲线下移"双重收益。</span></div>
-        <div class="row"><span class="col-tag good">✅ 票息底仓</span><span class="col-body">1-3Y城投AAA + 1-3Y中短票AAA继续作为票息底仓，不追5Y久期（分位均<3%）。</span></div>
+        <div class="row"><span class="col-tag good">✅ 票息底仓</span><span class="col-body">1-3Y城投AAA 15-20% + 1-3Y中短票AAA 5-10%，不追5Y久期（分位均<3%）。</span></div>
         <div class="row"><span class="col-tag good">✅ 杠杆</span><span class="col-body">DR007连续两周低于OMO+国库现金定存净投放+税期扰动可控——保持110-115%杠杆。</span></div>
-        <div class="row"><span class="col-tag warn">⚠ 下沉</span><span class="col-body">二级资本债AA+ 5Y本身已是下沉品种；城投AA+/AA仅限区域财政强+化债进度快的主体，严格控仓≤5%。</span></div>
-        <div class="row"><span class="col-tag warn">⚠ 久期</span><span class="col-body">30Y国债分位从19%反弹至68%、可逢强兑现；10Y国债分位31%仍可持有观察。若30Y分位上升至80%+立即减仓。</span></div>
-        <div class="row"><span class="col-tag bad">❌ 追中短票AAA 1Y</span><span class="col-body">近1年分位0.8%、距低点0.67BP——极致贴底、风险收益比严重失衡，清仓或仅保留到期前流动性管理用途。</span></div>
+        <div class="row"><span class="col-tag warn">⚠ 下沉</span><span class="col-body">二级AA+ 5/10Y本身已是下沉品种；城投AA+/AA仅限区域财政强+化债进度快的主体，严格控仓≤5%。</span></div>
+        <div class="row"><span class="col-tag warn">⚠ 久期</span><span class="col-body">30Y国债分位从19%反弹至68%、可逢强兑现；10Y国债分位31%仍可持有观察。若30Y分位>80%立即减仓。</span></div>
+        <div class="row"><span class="col-tag warn">⚠ 止盈监测</span><span class="col-body">超长信用止盈四信号：①基金久期近3年 ②10Y AAA中短票-3Y利差25-30BP ③下行斜率加速一致预期 ④机构下沉中低等级超长——任一触发向10Y以内集中。</span></div>
+        <div class="row"><span class="col-tag bad">❌ 追中短票AAA 1Y</span><span class="col-body">近1年分位0.8%/距低点0.67BP——极致贴底，清仓或仅保留到期前流动性管理用途。</span></div>
       </div>
 
       <div class="portfolio-box">
-        <strong>组合结构建议：</strong> 3-5Y二级资本债AAA- 30-40%（核心底仓）+ 5Y二级资本债AA+ 10-15%（下沉增强）+ 1-3Y城投AAA 15-20%（票息）+ 1-3Y中短票AAA 10-15%（流动性垫）+ 战术波段≤10%（3-5Y中短票/城投AAA利差修复）+ 现金与短融 ≥10%；杠杆率110-115%。
+        <strong>组合结构建议：</strong> 长端信用（城投AAA 15/20/30Y + 二级AAA-/AA+ 10Y）15-25%（核心结构α）+ 5Y二级AAA- 15-20% + 5Y二级AA+ 5-10% + 1-3Y城投AAA 15-20%（票息）+ 1-3Y中短票AAA 5-10%（流动性垫）+ 战术波段≤10% + 现金≥10%；杠杆率110-115%。
       </div>
 
       <div class="source">本文结论基于2026-04-17当日市场数据独立判断，数据口径统一采用中债估值。</div>

diff --git a/index.html b/index.html
@@ -124,12 +124,12 @@
 const reports = [
   {
     date: "2026-04-20",
-    title: "中短票AAA破新低，二级资本债5Y仍是相对价值洼地",
+    title: "短端贴底、长端仍有空间，聚焦城投AAA 20/30Y与二级AAA- 10Y",
     file: "reports/20260420.html"
   },
   {
     date: "2026-04-17",
-    title: "利率大幅下行，信用跟进滞后，二永AAA-仍是最优结构α",
+    title: "利率大幅下行，长端信用全面跟随，聚焦城投AAA 20/30Y+二级AAA- 10Y",
     file: "reports/20260417.html"
   }
 ];
